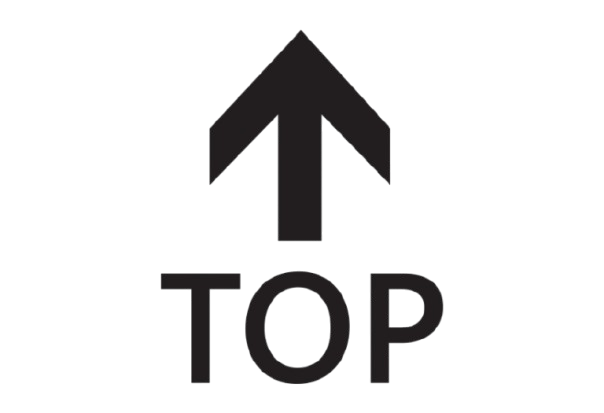
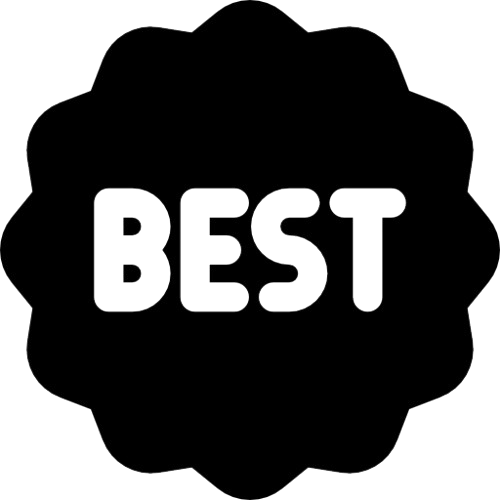
shuffle is also saved to localStorage, currentGenerator getting player from localStorage when reload page, used useLocation to fix logic of open/close button in Player, now when user presses space on SongsList page he starts to write in input, changed images for top/least  chosen songs.

diff --git a/src/pages/jsx/SongsList.jsx b/src/pages/jsx/SongsList.jsx
@@ -1,7 +1,6 @@
-import { useContext, useState, useMemo} from "react";
+import { useContext, useState, useMemo, useEffect, useRef} from "react";
 import "../css/SongsList.css";
 import { SongsGrid } from "../../Components/jsx/SongsGrid.jsx";
-import { QueueContext } from "../../contexts/QueueContext.jsx";
 import { PlayerContext } from "../../contexts/PlayerContext.jsx";
 
 
@@ -11,7 +10,22 @@ export function SongsList({
 }) {
   const {chooseSong} = useContext(PlayerContext);
   const [search, setSearch] = useState("");
+  const searchRef = useRef(null);
+  useEffect(()=> {
 
+    const handleKeyDown = (e) => {
+      if ("INPUT" === e.target.tagName) return;
+      if (e.code === "Enter") {
+        e.preventDefault();
+        searchRef.current.focus();
+      }
+    };
+
+    window.addEventListener("keydown", handleKeyDown);
+    return () => {
+      window.removeEventListener("keydown", handleKeyDown);
+    }
+  },[searchRef]);
 
   const songsToRender = useMemo(()=> {
     if (!search) return songs;
@@ -43,6 +57,7 @@ export function SongsList({
     <>
       <div className="songs-list-header">
         <input
+        ref={searchRef}
           placeholder="Search song"
           className="songs-list-search"
           value={search}

diff --git a/src/App.jsx b/src/App.jsx
@@ -32,7 +32,7 @@ function App() {
   const [duration, setDuration] = useState(0);
   const [author, setAuthor] = useStorage("author", "")
   const [queueShuffle, setQueueShuffle] = useState([]);
-  const [shuffle, setShuffle] = useState(false);
+  const [shuffle, setShuffle] = useStorage("shuffle", false);
   const [favourite, setFavourite] = useState(() => {
     const saved = localStorage.getItem("favourite");
     return saved ? new Set(JSON.parse(saved)) : new Set();
@@ -68,7 +68,6 @@ const [toast, setToast] = useState(null);
               playCount: song.playCount || 0,
             }));
 
-          setSongs(loadedSongs);
         }
 
         const processSongsStreams = async (data) => {
@@ -91,6 +90,7 @@ const [toast, setToast] = useState(null);
           setSong(song || null);
           setPlayer(player || []);
           setIsPlaying(false);
+          setCurrentGenerator(player || []);
         }
         if (authors.length === 0) {
            const response = await fetch("/authors.json", {

diff --git a/src/Components/jsx/Player.jsx b/src/Components/jsx/Player.jsx
@@ -1,6 +1,6 @@
 import { useEffect, useState, useContext, useRef, useCallback } from "react";
 import { PlayerContext } from "../../contexts/PlayerContext";
-import { useNavigate } from "react-router-dom";
+import { useNavigate, useLocation } from "react-router-dom";
 import { formatTime } from "../../utils/formatTime";
 import { Shuffle } from "./Shuffle";
 import "../css/Player.css";
@@ -21,6 +21,8 @@ export function Player({
   isPlayerClosed
 }) {
   const navigate = useNavigate();
+  const location = useLocation();
+
   const [volume, setVolume] = useState(1);
   
   const lastUsedTime = useRef(0);
@@ -38,6 +40,11 @@ export function Player({
   const { setPlayer } = useContext(QueueContext);
   const { time, setTime, progress, setProgress } = useContext(TimeContext);
   
+  useEffect(()=> {
+    if (location.pathname !== "/song") {
+      setIsPlayerClosed(true);
+    }
+  },[location.pathname, setIsPlayerClosed]);
 
   useEffect(() => {
     if (!audioRef.current || !song) return;

diff --git a/src/pages/css/SongsList.css b/src/pages/css/SongsList.css
@@ -59,8 +59,8 @@
     justify-content: center;
 }
 .priority-button {
-    width: 70px;
-    height: 50px;
+    width: 90px;
+    height: 70px;
     background-color: blueviolet;
      cursor: pointer;
     border: none;
